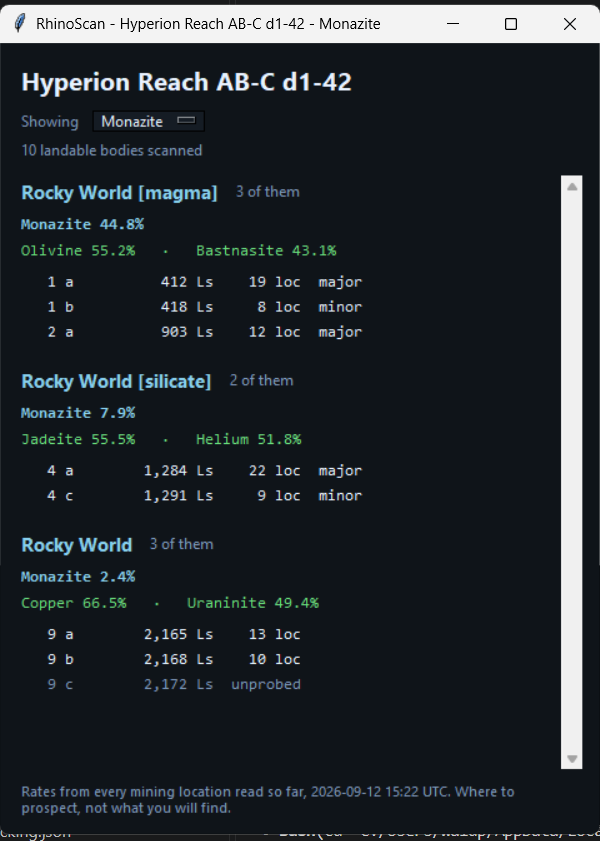
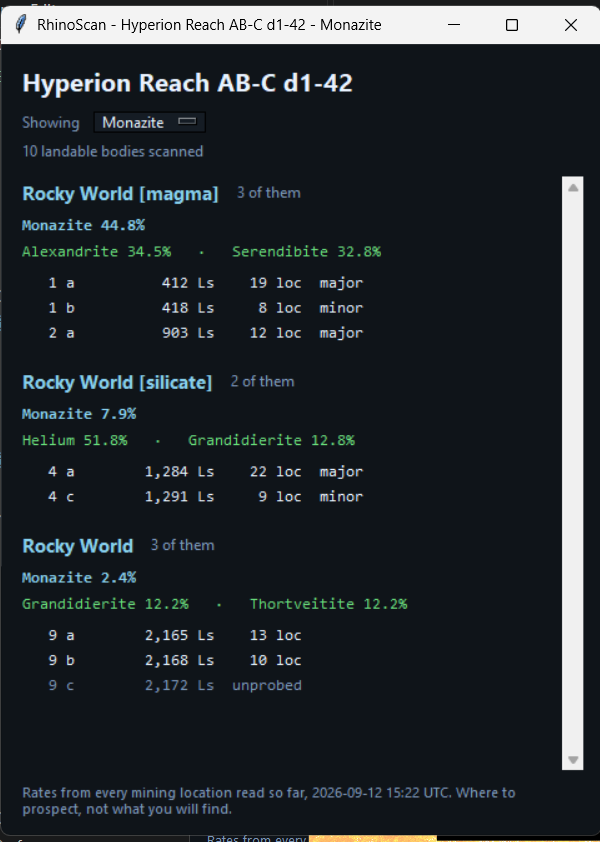
Show the materials that pay, not the likeliest ones
Once the sheet carried the cheap half, RhinoScan led high-metal ground with
copper, haematite and titanium - common and unpriced. The three per ground are
now ranked by share of locations times median price: iridium, platinum,
osmium. Unpriced materials sort last rather than vanish.

Claude-Session: https://claude.ai/code/session_01M6boCJULrSyUu3acaq6ken

diff --git a/rs_tests/test_grounds.py b/rs_tests/test_grounds.py
@@ -76,6 +76,23 @@ class TestSheet:
         kept = sheet.materials("volcanic magma", minimum=2.0)
         assert [row["material"] for row in kept] == ["Olivine", "Monazite"]
 
+    def test_best_puts_what_pays_first(self, sheet):
+        # Monazite 45.6% x 400k beats Olivine 56.1% x 50k.
+        rows = sheet.best("volcanic magma", minimum=2.0)
+        assert [row["material"] for row in rows] == ["Monazite", "Olivine"]
+
+    def test_best_sorts_unpriced_last_and_keeps_them(self, tmp_path):
+        """The high-metal case: copper is likeliest and has no price."""
+        import json
+        path = tmp_path / "ground_rules.json"
+        path.write_text(json.dumps({"grounds": {"high-metal-content": [
+            {"material": "Copper", "pct": 55.5, "median": 0, "best": 0},
+            {"material": "Osmium", "pct": 40.1, "median": 46638, "best": 273000},
+            {"material": "Iridium", "pct": 19.8, "median": 182000, "best": 400000},
+        ]}}), encoding="utf-8")
+        rows = grounds.Sheet(str(path)).best("high-metal-content")
+        assert [row["material"] for row in rows] == ["Iridium", "Osmium", "Copper"]
+
     def test_unknown_ground_is_empty_not_an_error(self, sheet):
         assert sheet.materials("volcanic silicate") == []
         assert sheet.sample("volcanic silicate") == 0

diff --git a/rs_ui/scan.py b/rs_ui/scan.py
@@ -301,12 +301,12 @@ def _group(parent, ground, found, sheet, wrap, focus=None, marked=None):
     tk.Label(head, text=f"{len(found)} of them", bg=BG, fg=DIM,
              font=("Segoe UI", 9), anchor="w").pack(side="left", padx=8)
 
-    materials = sheet.materials(ground, limit=TOP_MATERIALS, minimum=MIN_PCT)
+    materials = sheet.best(ground, limit=TOP_MATERIALS, minimum=MIN_PCT)
     if focus:
         # The chosen material leads, whatever its rate, and in the accent
         # colour so it is not read as one of the others. A ground listed
         # because it carries jadeite has to say what it carries it at, even
-        # when three likelier things sit under it.
+        # when three better-paying things sit under it.
         rate = sheet.rate(ground, focus)
         tk.Label(block, text=f"{focus} {rate}%", bg=BG, fg=ACCENT, anchor="w",
                  font=("Consolas", 10, "bold")).pack(fill="x", pady=(2, 0))

diff --git a/rs_core/grounds.py b/rs_core/grounds.py
@@ -135,6 +135,18 @@ class Sheet:
         rows = [row for row in self.grounds.get(ground, []) if row['pct'] >= minimum]
         return rows[:limit] if limit else rows
 
+    def best(self, ground, limit=None, minimum=0.0):
+        """What that ground pays, most per location first: pct times median.
+
+        Likeliest-first put copper, haematite and titanium at the top of
+        high-metal ground once the sheet carried the cheap half - common and
+        worth nothing. A median of 0 is unpriced; those sort last rather than
+        vanish, so a ground with nothing priced still says what it holds.
+        """
+        rows = sorted(self.materials(ground, minimum=minimum),
+                      key=lambda row: -row['pct'] * (row.get('median') or 0))
+        return rows[:limit] if limit else rows
+
     def rate(self, ground, material):
         """What that ground reads for one material, or None if it never has.
 

diff --git a/rs_core/replay.py b/rs_core/replay.py
@@ -209,7 +209,7 @@ def main(argv=None):
         counted = sum(body.get("locations") or 0 for body in seen)
         print(f"\n{system}   score {value}, {len(seen)} landable, {counted} locations counted")
         for ground, found in _by_ground(seen):
-            rows = sheet.materials(ground, limit=3, minimum=2.0)
+            rows = sheet.best(ground, limit=3, minimum=2.0)
             best_of = "  ".join(f"{row['material']} {row['pct']}%" for row in rows) or "-"
             print(f"   {grounds.label(ground):<28} {len(found):>2} body(s)   {best_of}")
     return 0

diff --git a/CHANGELOG.md b/CHANGELOG.md
@@ -22,6 +22,10 @@
 
 - The panel's once-a-second Status.json read feeds the minimap too, so there
   is still one parse a second.
+- RhinoScan's three materials per ground are the ones that pay most per
+  location - share of locations times median price - not the likeliest. On
+  high-metal ground that was copper, haematite and titanium, all unpriced;
+  it is now iridium, platinum and osmium. Unpriced materials sort last.
 
 **Not flown**
 
